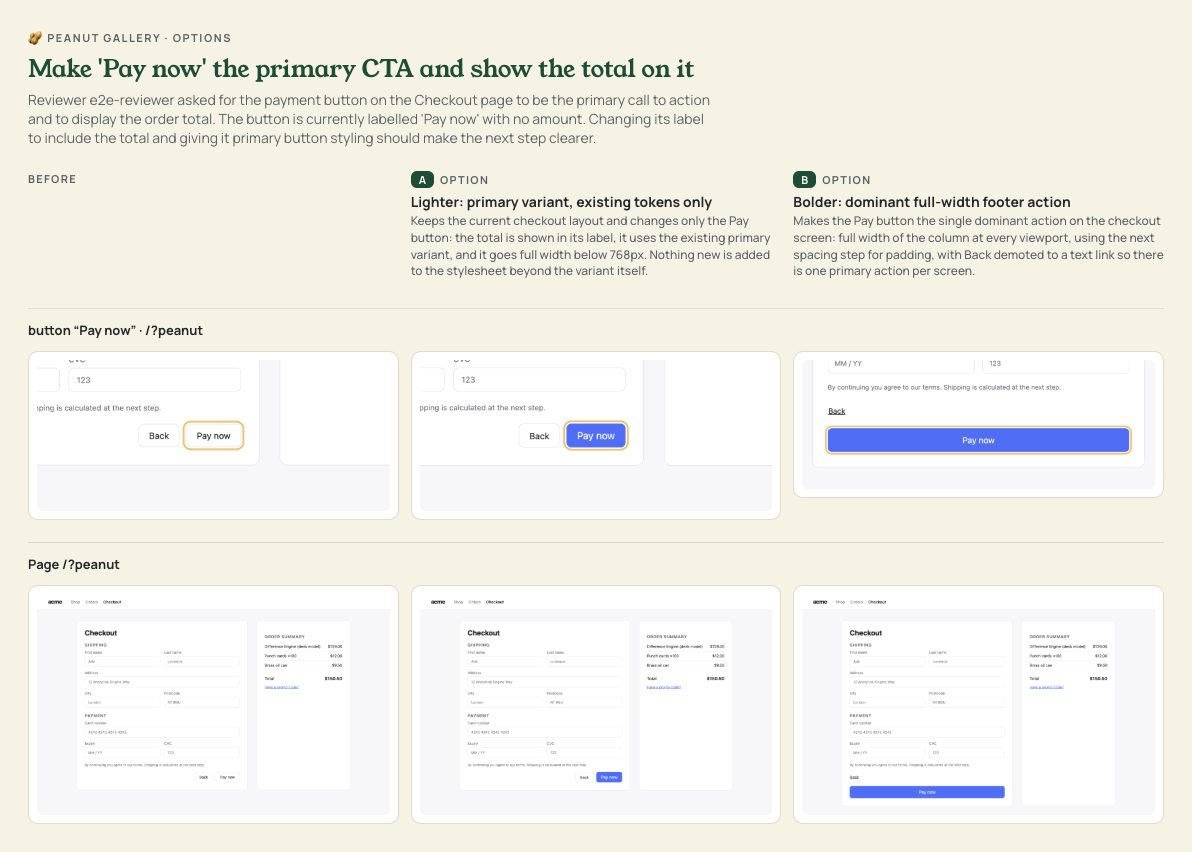
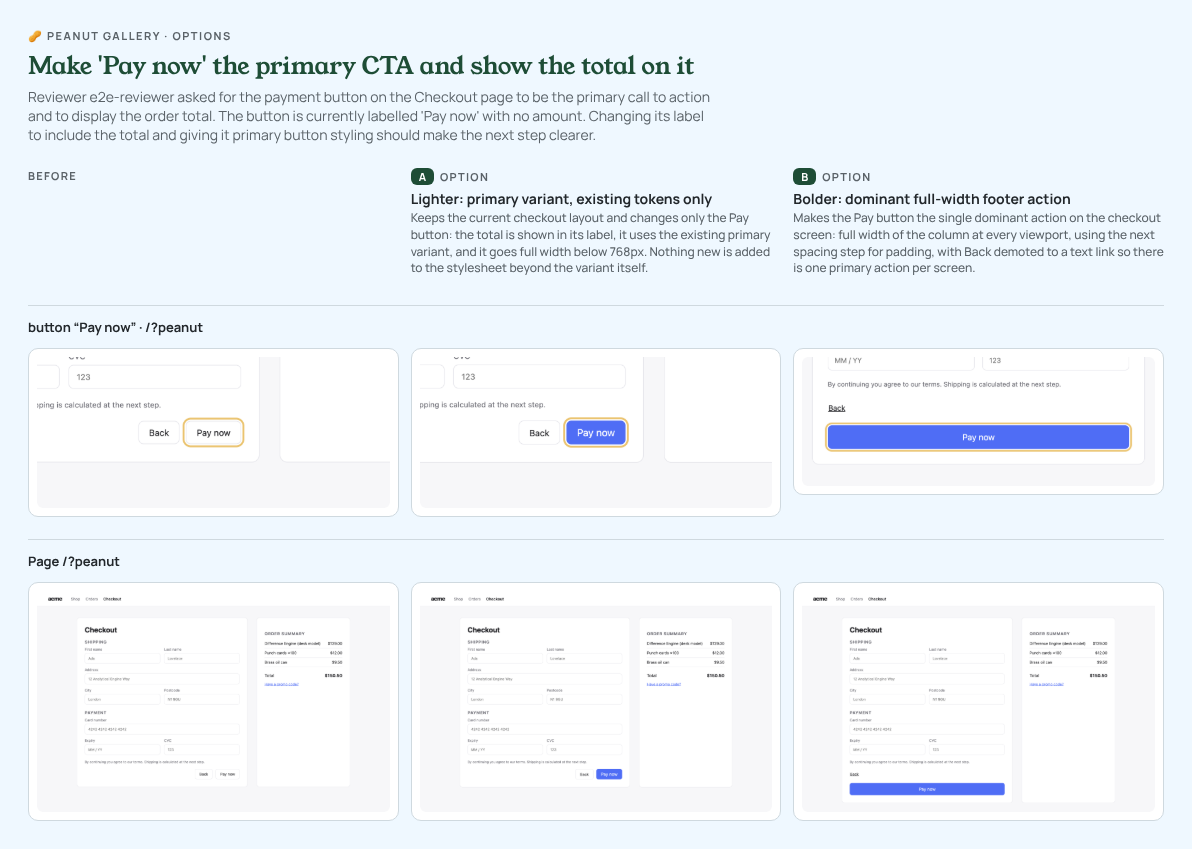
Demo: cool neutrals to match Sea Glass; options image at its real proportions
- Window bars, borders and dots use the palette's Gull 100/200/300 instead of
  warm Linen grays, which read beige on the Sea Glass page.
- The options comparison is rebuilt from the same recorded run's screenshots
  with renderOptionsPage and a cool theme (Sea Glass 50 ground, Gull 200 lines).
- Images keep their aspect ratio when they shrink to fit (height: auto); the
  options image was being stretched tall.

Claude-Session: https://claude.ai/code/session_012KFMsrXS16bKBZoZYvhYa8

diff --git a/demo/index.html b/demo/index.html
@@ -22,13 +22,13 @@
     --surface: #FFFFFF;
     --ink: #22272B;         /* Carbon */
     --muted: #5A6268;
-    --line: #DEDCCB;
+    --line: #CFD9DF;        /* Gull 200: cool borders to sit on Sea Glass */
     --forest: #1E4D36;      /* Conifer: headings, chips */
     --forest-2: #325D46;    /* Conifer 700: widget buttons */
     --primary: #0F7B52;     /* Emerald */
     --accent: #EAC26C;      /* Sunnyside */
     --navy: #152A4A;        /* Prep */
-    --chrome: #EDEBE3;      /* window bars */
+    --chrome: #E6ECEF;      /* Gull 100: window bars */
     --dot: #AEC1CF;         /* Sea Glass 300 */
     --tint: #EFF8FF;        /* Sea Glass 50 */
     --ok-bg: #D4F4E2; --ok: #0F7B52;
@@ -62,7 +62,7 @@
   }
   a { color: var(--forest); text-underline-offset: 3px; }
   a:focus-visible, button:focus-visible, input:focus-visible { outline: 3px solid var(--accent); outline-offset: 2px; border-radius: 6px; }
-  img { max-width: 100%; display: block; }
+  img { max-width: 100%; height: auto; display: block; }
   code, pre { font-family: var(--mono); }
   h1, h2, h3 { text-wrap: balance; }
   p code, li code { font-size: .86em; background: var(--tint); padding: 1px 6px; border-radius: 6px; }
@@ -101,7 +101,7 @@
   /* white window (browser frame) */
   .win { background: var(--surface); border: 1px solid var(--line); border-radius: 16px; overflow: hidden; box-shadow: var(--shadow-win); margin: 0; }
   .win .bar { display: flex; align-items: center; gap: 7px; height: 40px; padding: 0 14px; background: var(--chrome); border-bottom: 1px solid var(--line); }
-  .win .bar i { width: 11px; height: 11px; border-radius: 50%; background: #DBD8CA; display: block; flex: none; }
+  .win .bar i { width: 11px; height: 11px; border-radius: 50%; background: #B5C0C5; display: block; flex: none; }
   .win .bar .url { margin-left: 12px; flex: 1; max-width: 460px; height: 24px; border-radius: 7px; background: var(--surface); border: 1px solid var(--line); font: 12px/22px var(--mono); color: var(--muted); padding: 0 10px; overflow: hidden; text-overflow: ellipsis; white-space: nowrap; }
   .win .bar .url b { color: var(--ink); font-weight: 500; }
   .win iframe { display: block; width: 100%; height: clamp(560px, 78vh, 780px); border: 0; background: #f7f7f9; }
@@ -396,9 +396,9 @@
         </div>
         <figure class="win">
           <div class="bar"><i></i><i></i><i></i><span class="url"><b>github.com</b>/…/issues/34</span></div>
-          <img src="assets/options.png" alt="Options comparison posted on the issue: before, option A with a filled Pay button, and option B with a full-width Pay button and Back as a link" width="1192" height="852">
+          <img src="assets/options.png" alt="Options comparison posted on the issue: before, option A with a filled Pay button, and option B with a full-width Pay button and Back as a link" width="1192" height="849">
         </figure>
-        <p class="caption">The comparison image as it was posted on the issue, from the same recorded run.</p>
+        <p class="caption">The comparison posted on the issue, from the same recorded run, shown in a theme that matches this page.</p>
       </div>
     </section>
 
